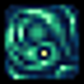
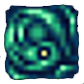
update power img

Changed region(s): [[0.0, 0.0, 1.0, 1.0]]

diff --git a/src/main/java/theParasitized/powers/pi_reek_power.java b/src/main/java/theParasitized/powers/pi_reek_power.java
@@ -25,8 +25,8 @@ public class pi_reek_power extends AbstractPower {
         this.owner = owner;
         this.type = PowerType.DEBUFF;
         this.amount = amount;
-        String path_128 = "parasitizedResources/images/powers/choice_p.png";
-        String path_48 = "parasitizedResources/images/powers/choice.png";
+        String path_128 = "parasitizedResources/images/powers/wither_p.png";
+        String path_48 = "parasitizedResources/images/powers/wither.png";
         this.region128 = new TextureAtlas.AtlasRegion(ImageMaster.loadImage(path_128), 0, 0, 84, 84);
         this.region48 = new TextureAtlas.AtlasRegion(ImageMaster.loadImage(path_48), 0, 0, 32, 32);
         this.updateDescription();
@@ -38,6 +38,7 @@ public class pi_reek_power extends AbstractPower {
 
     @Override
     public void onPlayCard(AbstractCard card, AbstractMonster m) {
+        this.flash();
         this.addToBot(new LoseHPAction(this.owner, AbstractDungeon.player, this.amount));
     }
 

diff --git a/src/main/java/theParasitized/cards/pi_34_poisonFog.java b/src/main/java/theParasitized/cards/pi_34_poisonFog.java
@@ -33,8 +33,7 @@ public class pi_34_poisonFog extends CustomMutiUpgradeCard {
     public pi_34_poisonFog(int upgrades) {
         super(ID, NAME, IMG_PATH, COST, DESCRIPTION, TYPE, COLOR, RARITY, TARGET);
         this.timesUpgraded = upgrades;
-        this.magicNumber = this.baseMagicNumber = 6;
-        this.block = this.baseBlock = 2;
+        this.magicNumber = this.baseMagicNumber = 4;
     }
 
     @Override
@@ -60,8 +59,8 @@ public class pi_34_poisonFog extends CustomMutiUpgradeCard {
                     this.addToBot(
                             new ApplyPowerAction(
                                     monster, abstractPlayer,
-                                    new VulnerablePower(monster, 3, false),
-                                    3)
+                                    new VulnerablePower(monster, 1, false),
+                                    1)
 
                     );
                 }

diff --git a/src/main/java/theParasitized/powers/pi_witherEnchantment_power.java b/src/main/java/theParasitized/powers/pi_witherEnchantment_power.java
@@ -23,8 +23,8 @@ public class pi_witherEnchantment_power extends AbstractPower {
         this.owner = owner;
         this.type = PowerType.BUFF;
         this.amount = amount;
-        String path_128 = "parasitizedResources/images/powers/pi_curse.png";
-        String path_48 = "parasitizedResources/images/powers/pi_curse.png";
+        String path_128 = "parasitizedResources/images/powers/witherEnchantment_p.png";
+        String path_48 = "parasitizedResources/images/powers/witherEnchantment.png";
         this.region128 = new TextureAtlas.AtlasRegion(ImageMaster.loadImage(path_128), 0, 0, 84, 84);
         this.region48 = new TextureAtlas.AtlasRegion(ImageMaster.loadImage(path_48), 0, 0, 32, 32);
         this.updateDescription();

diff --git a/src/main/java/theParasitized/powers/pi_cognitiveFilter_power.java b/src/main/java/theParasitized/powers/pi_cognitiveFilter_power.java
@@ -21,8 +21,8 @@ public class pi_cognitiveFilter_power extends AbstractPower {
         this.owner = owner;
         this.type = PowerType.BUFF;
         this.amount = amount;
-        String path_128 = "parasitizedResources/images/powers/pi_curse.png";
-        String path_48 = "parasitizedResources/images/powers/pi_curse.png";
+        String path_128 = "parasitizedResources/images/powers/cognitiveFilter_p.png";
+        String path_48 = "parasitizedResources/images/powers/cognitiveFilter.png";
         this.region128 = new TextureAtlas.AtlasRegion(ImageMaster.loadImage(path_128), 0, 0, 84, 84);
         this.region48 = new TextureAtlas.AtlasRegion(ImageMaster.loadImage(path_48), 0, 0, 32, 32);
         this.updateDescription();

diff --git a/src/main/java/theParasitized/powers/pi_explosion_power.java b/src/main/java/theParasitized/powers/pi_explosion_power.java
@@ -26,8 +26,8 @@ public class pi_explosion_power extends AbstractPower {
         this.owner = owner;
         this.type = PowerType.BUFF;
         this.amount = amount;
-        String path_128 = "parasitizedResources/images/powers/choice_p.png";
-        String path_48 = "parasitizedResources/images/powers/choice.png";
+        String path_128 = "parasitizedResources/images/powers/cognitiveFilter_p.png";
+        String path_48 = "parasitizedResources/images/powers/cognitiveFilter.png";
         this.region128 = new TextureAtlas.AtlasRegion(ImageMaster.loadImage(path_128), 0, 0, 84, 84);
         this.region48 = new TextureAtlas.AtlasRegion(ImageMaster.loadImage(path_48), 0, 0, 32, 32);
         this.updateDescription();

diff --git a/src/main/java/theParasitized/powers/pi_phantom_power.java b/src/main/java/theParasitized/powers/pi_phantom_power.java
@@ -23,8 +23,8 @@ public class pi_phantom_power extends AbstractPower {
         this.owner = owner;
         this.type = PowerType.BUFF;
         this.amount = amount;
-        String path_128 = "parasitizedResources/images/powers/pi_curse.png";
-        String path_48 = "parasitizedResources/images/powers/pi_curse.png";
+        String path_128 = "parasitizedResources/images/powers/cognitiveFilter_p.png";
+        String path_48 = "parasitizedResources/images/powers/cognitiveFilter.png";
         this.region128 = new TextureAtlas.AtlasRegion(ImageMaster.loadImage(path_128), 0, 0, 84, 84);
         this.region48 = new TextureAtlas.AtlasRegion(ImageMaster.loadImage(path_48), 0, 0, 32, 32);
         this.updateDescription();

diff --git a/src/main/java/theParasitized/powers/pi_suppress_power.java b/src/main/java/theParasitized/powers/pi_suppress_power.java
@@ -23,8 +23,8 @@ public class pi_suppress_power extends AbstractPower {
         this.owner = owner;
         this.type = PowerType.BUFF;
         this.amount = amount;
-        String path_128 = "parasitizedResources/images/powers/choice_p.png";
-        String path_48 = "parasitizedResources/images/powers/choice.png";
+        String path_128 = "parasitizedResources/images/powers/cognitiveFilter_p.png";
+        String path_48 = "parasitizedResources/images/powers/cognitiveFilter.png";
         this.region128 = new TextureAtlas.AtlasRegion(ImageMaster.loadImage(path_128), 0, 0, 84, 84);
         this.region48 = new TextureAtlas.AtlasRegion(ImageMaster.loadImage(path_48), 0, 0, 32, 32);
         this.updateDescription();

diff --git a/src/main/java/theParasitized/powers/pi_thornyFlesh_power.java b/src/main/java/theParasitized/powers/pi_thornyFlesh_power.java
@@ -25,8 +25,8 @@ public class pi_thornyFlesh_power extends AbstractPower {
         this.owner = owner;
         this.type = PowerType.BUFF;
         this.amount = amount;
-        String path_128 = "parasitizedResources/images/powers/pi_curse.png";
-        String path_48 = "parasitizedResources/images/powers/pi_curse.png";
+        String path_128 = "parasitizedResources/images/powers/thornyFlesh_p.png";
+        String path_48 = "parasitizedResources/images/powers/thornyFlesh_p.png";
         this.region128 = new TextureAtlas.AtlasRegion(ImageMaster.loadImage(path_128), 0, 0, 84, 84);
         this.region48 = new TextureAtlas.AtlasRegion(ImageMaster.loadImage(path_48), 0, 0, 32, 32);
         this.updateDescription();

diff --git a/src/main/java/theParasitized/powers/pi_callOfSwarm_power.java b/src/main/java/theParasitized/powers/pi_callOfSwarm_power.java
@@ -21,8 +21,8 @@ public class pi_callOfSwarm_power extends AbstractPower {
         this.owner = owner;
         this.type = PowerType.BUFF;
         this.amount = amount;
-        String path_128 = "parasitizedResources/images/powers/pi_curse.png";
-        String path_48 = "parasitizedResources/images/powers/pi_curse.png";
+        String path_128 = "parasitizedResources/images/powers/callOfSwarm_p.png";
+        String path_48 = "parasitizedResources/images/powers/callOfSwarm.png";
         this.region128 = new TextureAtlas.AtlasRegion(ImageMaster.loadImage(path_128), 0, 0, 84, 84);
         this.region48 = new TextureAtlas.AtlasRegion(ImageMaster.loadImage(path_48), 0, 0, 32, 32);
         this.updateDescription();

diff --git a/src/main/java/theParasitized/powers/pi_scab_power.java b/src/main/java/theParasitized/powers/pi_scab_power.java
@@ -23,8 +23,8 @@ public class pi_scab_power extends AbstractPower {
         this.owner = owner;
         this.type = PowerType.BUFF;
         this.amount = amount;
-        String path_128 = "parasitizedResources/images/powers/choice_p.png";
-        String path_48 = "parasitizedResources/images/powers/choice.png";
+        String path_128 = "parasitizedResources/images/powers/cognitiveFilter_p.png";
+        String path_48 = "parasitizedResources/images/powers/cognitiveFilter.png";
         this.region128 = new TextureAtlas.AtlasRegion(ImageMaster.loadImage(path_128), 0, 0, 84, 84);
         this.region48 = new TextureAtlas.AtlasRegion(ImageMaster.loadImage(path_48), 0, 0, 32, 32);
         this.updateDescription();

diff --git a/src/main/java/theParasitized/powers/pi_graspingAtCurses_power.java b/src/main/java/theParasitized/powers/pi_graspingAtCurses_power.java
@@ -22,8 +22,8 @@ public class pi_graspingAtCurses_power extends AbstractPower {
         this.owner = owner;
         this.type = PowerType.BUFF;
         this.amount = amount;
-        String path_128 = "parasitizedResources/images/powers/pi_curse.png";
-        String path_48 = "parasitizedResources/images/powers/pi_curse.png";
+        String path_128 = "parasitizedResources/images/powers/choice_p.png";
+        String path_48 = "parasitizedResources/images/powers/choice.png";
         this.region128 = new TextureAtlas.AtlasRegion(ImageMaster.loadImage(path_128), 0, 0, 84, 84);
         this.region48 = new TextureAtlas.AtlasRegion(ImageMaster.loadImage(path_48), 0, 0, 32, 32);
         this.updateDescription();

diff --git a/src/main/java/theParasitized/powers/pi_69_parasite_power.java b/src/main/java/theParasitized/powers/pi_69_parasite_power.java
@@ -26,8 +26,8 @@ public class pi_69_parasite_power extends AbstractPower {
         this.owner = owner;
         this.type = PowerType.DEBUFF;
         this.amount = amount;
-        String path_128 = "parasitizedResources/images/powers/choice_p.png";
-        String path_48 = "parasitizedResources/images/powers/choice.png";
+        String path_128 = "parasitizedResources/images/powers/parasite_p.png";
+        String path_48 = "parasitizedResources/images/powers/parasite.png";
         this.region128 = new TextureAtlas.AtlasRegion(ImageMaster.loadImage(path_128), 0, 0, 84, 84);
         this.region48 = new TextureAtlas.AtlasRegion(ImageMaster.loadImage(path_48), 0, 0, 32, 32);
         this.updateDescription();
